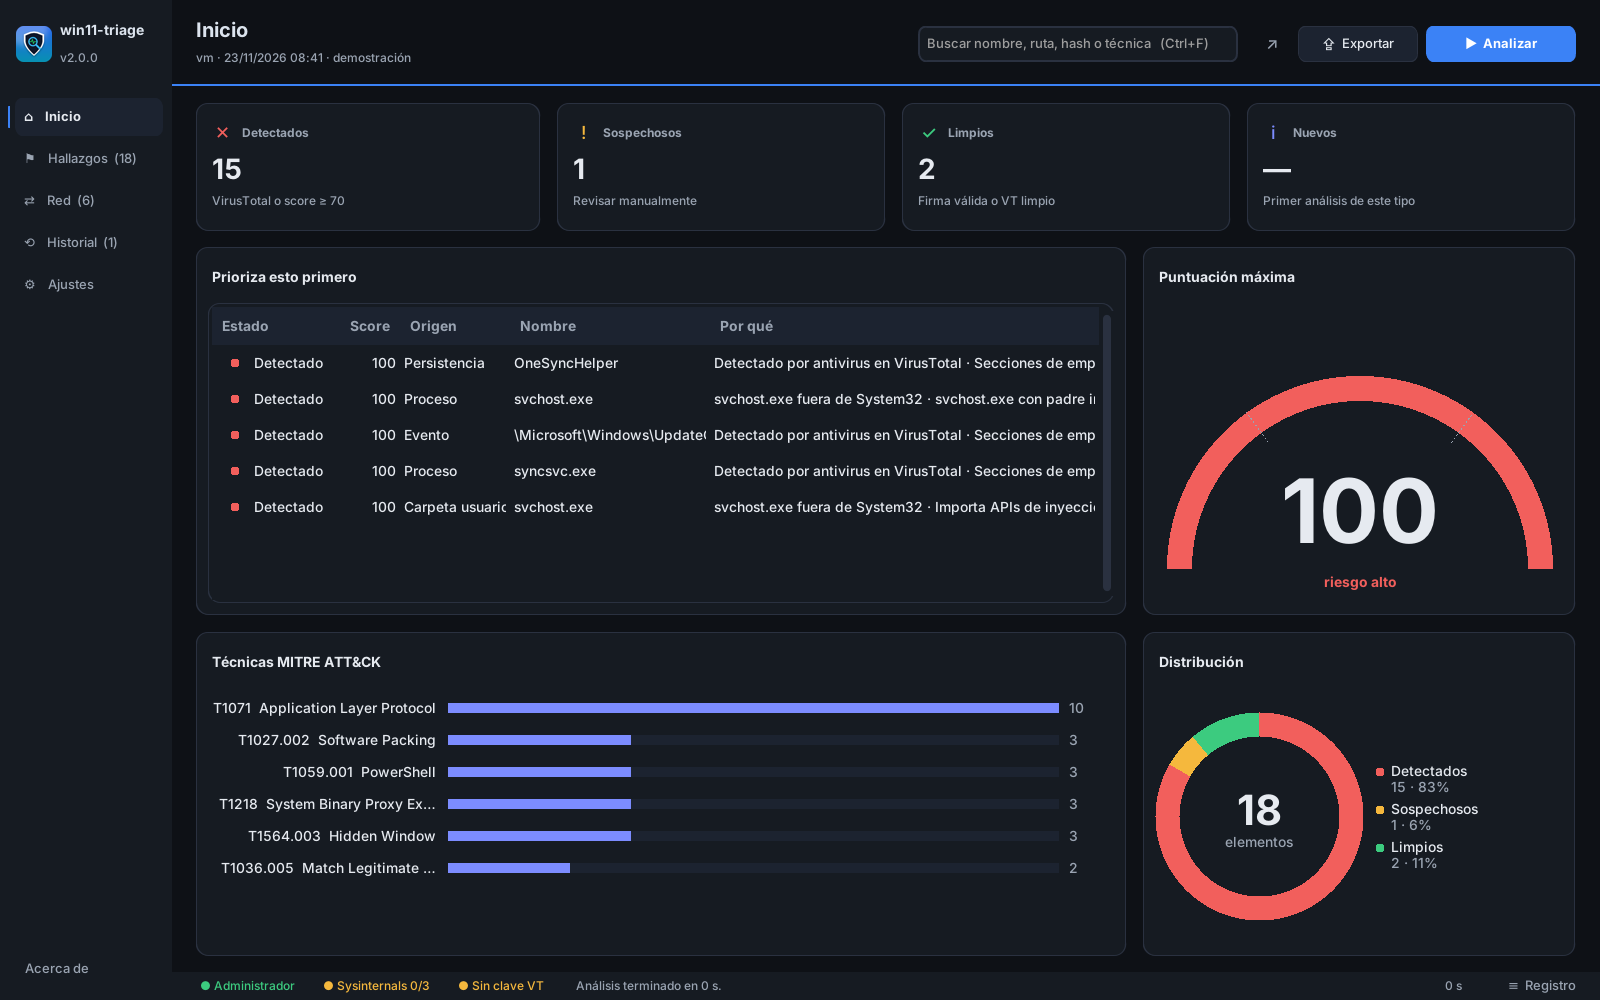
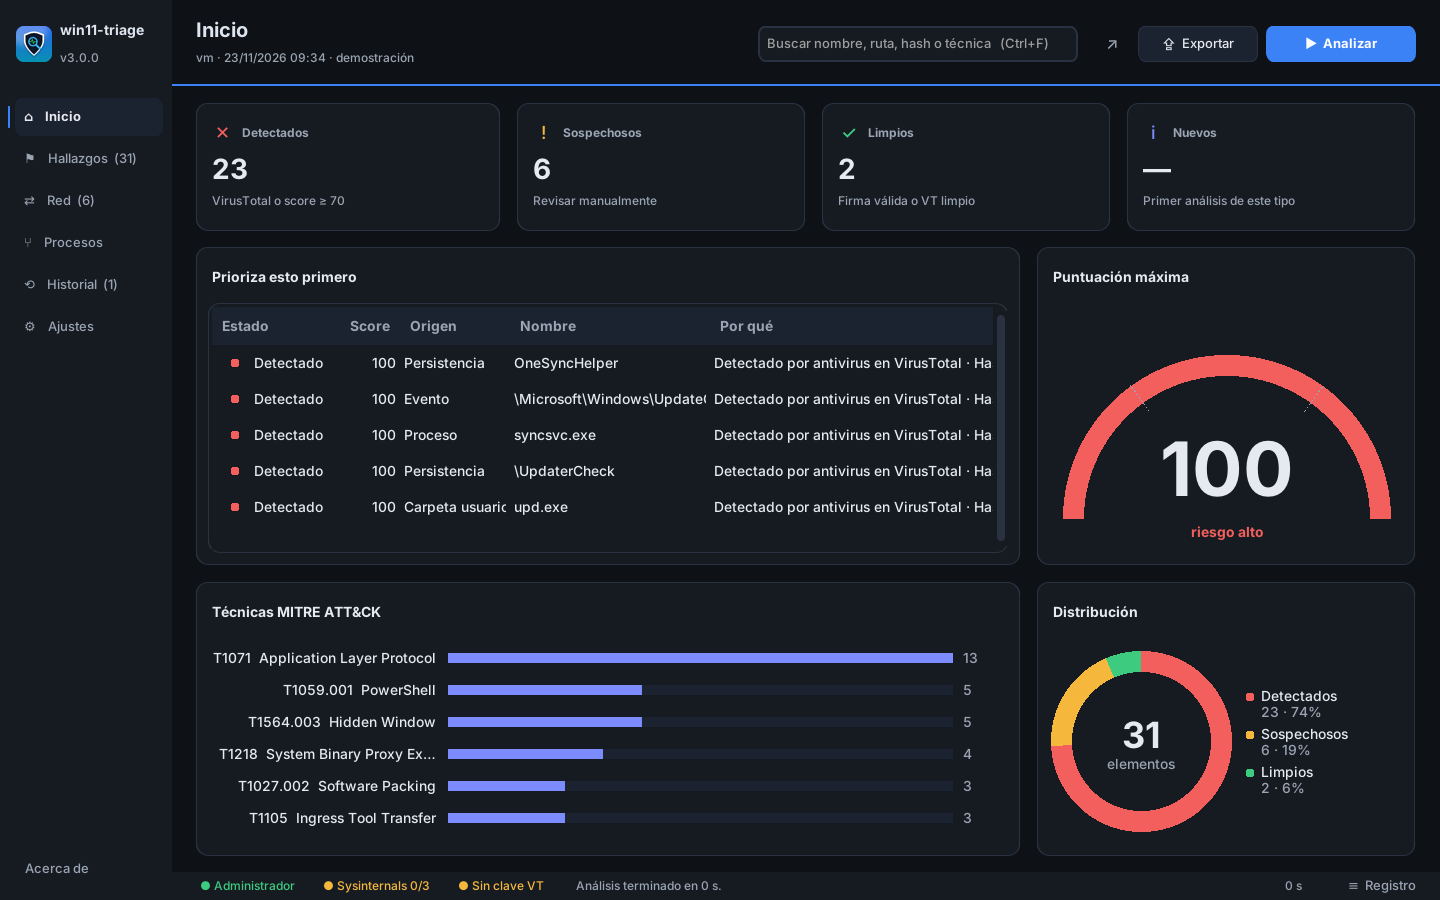
v3.0.0: README, CHANGELOG y capturas actualizadas
Claude-Session: https://claude.ai/code/session_01HtRfFFfZssj8w5Yyb5x4AY

diff --git a/win11_triage/__init__.py b/win11_triage/__init__.py
@@ -1,5 +1,5 @@
 """win11-triage: triaje defensivo de persistencia y binarios sin firma en Windows 11."""
 
-__version__ = "2.1.0"
+__version__ = "3.0.0"
 __author__ = "David"
 __copyright__ = "© 2026 David"

diff --git a/README.md b/README.md
@@ -10,13 +10,16 @@ Herramienta de **triaje defensivo y respuesta a incidentes** para Windows 11. Ex
 
 - persistencia;
 - procesos y conexiones de red;
-- eventos de Windows;
+- eventos de Windows y **reglas Sigma** (con Sysmon si está instalado);
+- **extensiones de navegador** (Chrome, Edge, Brave y Firefox);
 - contenido de los ejecutables (análisis PE y YARA);
-- reputación en VirusTotal.
+- reputación en VirusTotal, **AbuseIPDB** y **MalwareBazaar**.
 
 Con todo ello, **puntúa cada elemento de 0 a 100 explicando por qué** y lo relaciona con técnicas de **MITRE ATT&CK**.
 
-Se usa con **interfaz gráfica** o desde la **línea de comandos**. Es **solo lectura**: nunca borra, termina procesos ni sube ficheros.
+Para cada hallazgo te dice **«¿Qué hago con esto?»** con pasos concretos. Se usa con **interfaz gráfica** (español o inglés) o desde la **línea de comandos**, en este equipo o en **otros por WinRM**, y puede vigilar el equipo con **análisis programados** que avisan solo de lo nuevo. Es **solo lectura**: nunca borra, termina procesos ni sube ficheros.
+
+🌐 Página del proyecto: <https://davidzabalaasir-create.github.io/Win11_triage/>
 
 ![Panel de win11-triage](docs/gui.png)
 
@@ -30,7 +33,11 @@ Se usa con **interfaz gráfica** o desde la **línea de comandos**. Es **solo le
 | `--events [DÍAS]` | `wevtutil` | Servicios instalados (7045), tareas creadas (4698) y detecciones de Defender (1116/1117) |
 | `--network` | `psutil` (`tcpvcon` de respaldo) | Conexiones externas, correlacionadas **por PID y ruta exacta** |
 | `--static` | `pefile` + YARA | Empaquetadores, entropía alta, imports de inyección, timestamps imposibles y reglas YARA |
+| `--sigma` | Sysmon, Security 4688, PowerShell 4104, System 7045 | **Reglas Sigma** (11 incluidas + las tuyas en `sigma/*.yml`): Office lanzando consolas, LOLBins, borrado de instantáneas, volcado de LSASS, claves Run, DNS a túneles… |
+| `--browsers` | Perfiles de Chrome, Edge, Brave y Firefox | Extensiones fuera de la tienda, sin empaquetar o sin firma, con acceso a todos los sitios o permisos peligrosos |
 | `--vt` | API v3 de VirusTotal | Reputación de cada SHA-256, con caché y límite de tasa |
+| `--intel` | AbuseIPDB · MalwareBazaar | Reputación de las IP remotas y hashes de malware conocido (claves gratuitas en `.env`) |
+| `--remote EQUIPO` | PowerShell Remoting (WinRM) | Persistencia, procesos y red de otro equipo, sin instalar nada en él |
 
 ### Puntuación y veredicto
 
@@ -94,12 +101,13 @@ win11-triage-gui          # o: win11-triage --gui · o desde el menú Inicio si 
 
 | Zona | Qué hay |
 |---|---|
-| **Barra lateral** | Inicio · Hallazgos · Red · Historial · Ajustes, con contadores. |
+| **Barra lateral** | Inicio · Hallazgos · Red · Procesos · Historial · Ajustes, con contadores. |
 | **Barra superior** | Título de la página, búsqueda (nombre, ruta, hash o técnica como `T1059.001`), Exportar y el botón principal **Analizar**, que se convierte en **Cancelar** mientras analiza. |
 | **Nuevo análisis** | Perfiles **Rápido**, **Completo** o **Personalizado**; módulos agrupados en *Recolección* y *Enriquecimiento*; días de eventos, límite de VirusTotal, formato del informe y modo demostración. Recuerda la última configuración. |
 | **Inicio** | KPIs con la tendencia frente al análisis anterior, «Prioriza esto primero», puntuación máxima, técnicas ATT&CK y distribución. |
-| **Hallazgos** | Filtros con contador, «Solo nuevos», tabla ordenable y **panel de detalle lateral**. El panel muestra el porqué con el peso y la evidencia de cada señal, y los datos del archivo, la ejecución, la red y VirusTotal. |
-| **Ajustes** | Clave de VirusTotal, apariencia (Sistema / Claro / Oscuro), herramientas (con instalación por winget), lista blanca, reglas YARA y carpetas. |
+| **Hallazgos** | Filtros con contador, «Solo nuevos», tabla ordenable y **panel de detalle lateral**. El panel muestra **«¿Qué hago con esto?»**, el porqué con el peso y la evidencia de cada señal, y los datos del archivo, la ejecución, la red y VirusTotal. |
+| **Procesos** | **Árbol padre → hijo** con las ramas sospechosas desplegadas; doble clic salta al hallazgo. |
+| **Ajustes** | Claves (VirusTotal, AbuseIPDB, MalwareBazaar), apariencia e **idioma** (español / inglés), **alertas** (notificación de Windows y webhook), **análisis programado**, herramientas (con instalación por winget), lista blanca, reglas YARA y carpetas. |
 | **Barra de estado** | Estado del entorno (administrador, Sysinternals, VirusTotal), progreso y el **Registro** plegable (`Ctrl+L`). |
 
 **Flujo de trabajo del analista:**
@@ -119,7 +127,13 @@ win11-triage-gui          # o: win11-triage --gui · o desde el menú Inicio si 
 **Atajos:**
 - `Ctrl+N` nuevo análisis · `Ctrl+R` repetir el último · `Esc` cancelar
 - `Ctrl+F` buscar · `Ctrl+E` exportar CSV · `Ctrl+O` abrir informe
-- `Ctrl+1…5` páginas · `F5` volver a comprobar las herramientas
+- `Ctrl+1…6` páginas · `F5` volver a comprobar las herramientas
+
+<details><summary>Árbol de procesos</summary>
+
+![Árbol de procesos](docs/gui_procesos.png)
+
+</details>
 
 <details><summary>Tema claro</summary>
 
@@ -137,14 +151,25 @@ win11-triage --all                    # todos los módulos
 win11-triage --autoruns --processes --network   # triaje rápido sin red externa
 win11-triage --events 30              # servicios, tareas y Defender de los últimos 30 días
 win11-triage --all --format all --vt-limit 20
-win11-triage --dry-run                # demostración con datos de ejemplo
+win11-triage --dry-run --explain      # demostración con datos de ejemplo y pasos recomendados
+win11-triage --sigma --browsers --intel          # reglas Sigma, extensiones y reputación
+win11-triage --remote PC-01 --remote-user CORP\\ana  # otro equipo por WinRM
+win11-triage --schedule daily --at 08:30         # análisis diario que solo avisa de novedades
+win11-triage --all --webhook https://hooks.slack.com/… --alert-new --notify
+win11-triage --all --lang en --format pdf        # resumen ejecutivo en inglés
 ```
 
 | Opción | Descripción |
 |---|---|
 | `--all` | Activa todos los módulos |
 | `--vt-limit N` | Máximo de consultas **nuevas** a VirusTotal (las de caché no cuentan) |
-| `--format md\|html\|json\|both\|all` | Formato del informe (`both` = md + json, `all` = los tres) |
+| `--format md\|html\|json\|pdf\|both\|all` | Formato del informe (`pdf` = resumen ejecutivo de una página, `both` = md + json, `all` = todos) |
+| `--explain` | «¿Qué hago con esto?» para los 5 elementos más graves |
+| `--lang es\|en` | Idioma de los informes y mensajes (también `WIN11_TRIAGE_LANG`) |
+| `--notify` · `--webhook URL` · `--jsonl FICHERO` | Notificación de Windows · Slack, Teams, Splunk HEC o JSON genérico · JSON Lines para Wazuh/Filebeat |
+| `--alert-new` | Las alertas incluyen solo lo nuevo o lo que empeora respecto al análisis anterior |
+| `--schedule daily\|weekly\|off\|status` · `--at HH:MM` | Análisis programado con el Programador de tareas |
+| `--remote EQUIPO` · `--remote-user U` · `--remote-ssl` | Triaje remoto por WinRM (5985, o 5986 con SSL) |
 | `--output-dir DIR` / `--config-dir DIR` | Carpeta de informes / de `.env`, `whitelist.json`, `vt_cache.json` y `yara/` |
 | `--evidence` | Además, paquete de evidencias `.zip` |
 | `--min-score N` | Muestra e informa solo los elementos con score ≥ N |
@@ -171,7 +196,7 @@ En `reportes/triage_<equipo>_<fecha>.{html,md,json}`. Incluyen:
 - detalle de cada elemento con sus señales (peso, técnica y evidencia), sus conexiones, VirusTotal y la **revisión del analista**;
 - **cronología**: los elementos con fecha, ordenados del más reciente al más antiguo.
 
-El **HTML** es un único archivo que se puede imprimir a PDF. El **JSON** (`schema_version: 2`) está pensado para SIEM y automatización:
+El **PDF ejecutivo** (`--format pdf`) resume en una página el veredicto, las cifras, lo más grave con qué hacer y las técnicas observadas, para quien tiene que decidir. El **HTML** es un único archivo con todo el detalle, incluido «¿Qué hago con esto?» y las **cadenas de procesos sospechosos**. El **JSON** (`schema_version: 2`) está pensado para SIEM y automatización:
 
 ```json
 { "schema_version": 2, "max_score": 100,
@@ -185,7 +210,8 @@ El **HTML** es un único archivo que se puede imprimir a PDF. El **JSON** (`sche
 
 | Archivo | Para qué |
 |---|---|
-| `.env` | `VT_API_KEY` y, opcionalmente, `SYSINTERNALS_DIR` |
+| `.env` | `VT_API_KEY`; opcionales: `ABUSEIPDB_API_KEY`, `MALWAREBAZAAR_API_KEY`, `WIN11_TRIAGE_WEBHOOK`, `SPLUNK_HEC_TOKEN`, `SYSINTERNALS_DIR` |
+| `sigma/*.yml` | Tus reglas Sigma (formato estándar: `logsource`, `detection`, `condition`, modificadores `contains`/`startswith`/`endswith`/`all`/`re`/`cidr`) |
 | `whitelist.json` | `paths` (admite `*`, `%VAR%` y carpetas terminadas en `\`), `hashes` y `publishers` (solo se aplica a elementos con firma válida) |
 | `yara/*.yar` | Tus reglas YARA. Se suman a las incluidas; usa `meta: description`, `mitre` y `weight` |
 | `vt_cache.json` | Caché de VirusTotal. Los «no encontrado» caducan a los 7 días |

diff --git a/CHANGELOG.md b/CHANGELOG.md
@@ -2,6 +2,25 @@
 
 Formato basado en [Keep a Changelog](https://keepachangelog.com/es-ES/1.1.0/) y [SemVer](https://semver.org/lang/es/).
 
+## [3.0.0] — 2026-11-23
+
+### Añadido
+- **Árbol de procesos**: página «Procesos» con las ramas sospechosas desplegadas y cadenas padre → hijo en los informes.
+- **Reglas Sigma** (`--sigma`): motor propio compatible con el formato estándar sobre Sysmon (1, 3, 11, 12–14, 22), Security 4688, PowerShell 4104 y System 7045. 11 reglas incluidas y reglas propias en `sigma/*.yml`.
+- **Extensiones de navegador** (`--browsers`): Chrome, Edge, Brave y Firefox; fuera de la tienda, sin empaquetar, sin firma y permisos peligrosos.
+- **Reputación** (`--intel`): AbuseIPDB para IPs remotas y MalwareBazaar para hashes, con caché.
+- **Alertas**: notificación de Windows (`--notify`), webhooks para Slack, Teams, Splunk HEC o JSON genérico (`--webhook`), JSON Lines para Wazuh/Filebeat (`--jsonl`) y `--alert-new` para avisar solo de lo nuevo o lo que empeora. También en Ajustes.
+- **Análisis programado** (`--schedule daily|weekly`) con el Programador de tareas; en la GUI, en Ajustes.
+- **«¿Qué hago con esto?»**: pasos recomendados para cada hallazgo en la GUI, los informes y la CLI (`--explain`).
+- **Resumen ejecutivo en PDF** de una página (`--format pdf` y Exportar).
+- **Triaje remoto por WinRM** (`--remote`), sin instalar nada en el equipo analizado; también en «Nuevo análisis».
+- **Inglés**: interfaz, informes, PDF y recomendaciones (`--lang en` o Ajustes → Idioma).
+- **Paquete MSIX** para Microsoft Store (`scripts/build_msix.ps1`) y guía de publicación en `docs/MICROSOFT_STORE.md`.
+- **Página web** del proyecto en GitHub Pages (`site/`).
+
+### Corregido
+- Los avisos flotantes ocupaban 200 px de alto.
+
 ## [2.1.0] — 2026-11-23
 
 ### Añadido
